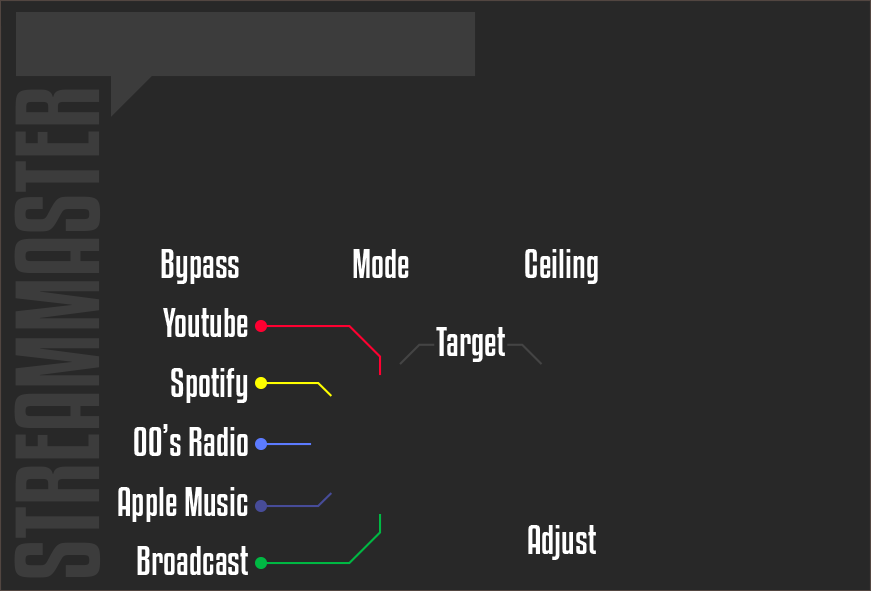
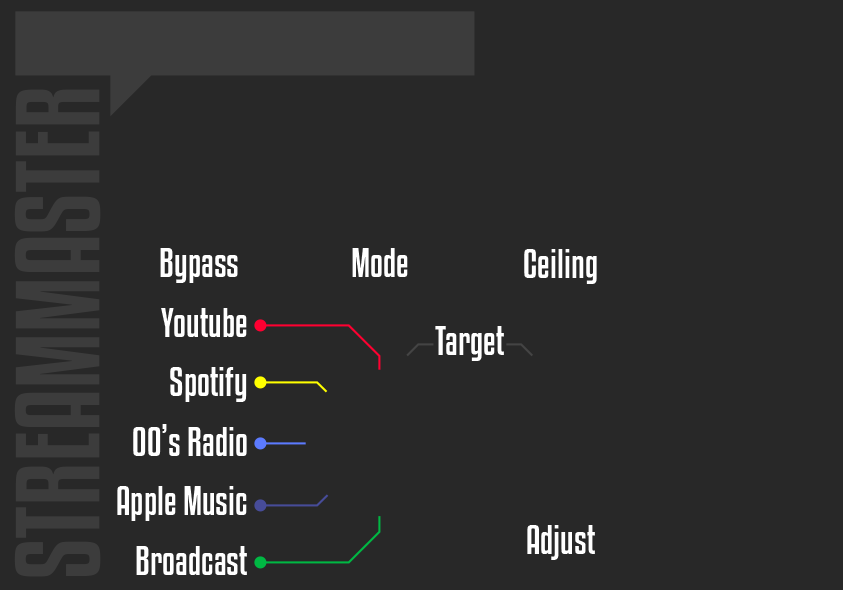
Implemented 0.1dB step for Adjust knob, minor GUI tweaks

diff --git a/StreamMaster.cpp b/StreamMaster.cpp
@@ -242,19 +242,23 @@ StreamMaster::StreamMaster(IPlugInstanceInfo instanceInfo):
   GetParam(kBypassSwitch)->InitBool("OnOff", 0, "");
 
   // Ceiling knob
-  /* We need precise values for ceiling knob,
+  /*
+  We want to only have values with 0.1 step for ceiling knob,
+  plus make it feel "clicky" opposed to a usual smooth knob,
   so we have to use integer values and convert them into double later.
-  For example, "9" represents -0.1dB, "0" is for -1.0dB etc. if the actual range is -1.0..-0.0dB*/
+  For example, "9" represents -0.1dB, "0" is for -1.0dB etc.
+  if the actual range is -1.0..0.0dB
+  */
   GetParam(kCeiling)->InitInt("Ceiling", PLUG_KNOB_PEAK_DEFAULT, PLUG_KNOB_PEAK_MIN, PLUG_KNOB_PEAK_MAX, "tenths of dB");
   GetParam(kCeiling)->SetShape(1.);
 
   // Adjust knob
   GetParam(kAdjust)->InitDouble(
     "Target LUFS Adjust",
-    PLUG_ADJUST_KNOB_PEAK_DEFAULT,
-    PLUG_ADJUST_KNOB_PEAK_MIN,
-    PLUG_ADJUST_KNOB_PEAK_MAX,
-    PLUG_ADJUST_KNOB_PEAK_STEP,
+    PLUG_KNOB_ADJUST_DEFAULT,
+    PLUG_KNOB_ADJUST_MIN,
+    PLUG_KNOB_ADJUST_MAX,
+    PLUG_KNOB_ADJUST_STEP,
     "LUFS"
     );
   GetParam(kAdjust)->SetShape(1.);
@@ -630,7 +634,7 @@ StreamMaster::StreamMaster(IPlugInstanceInfo instanceInfo):
   nCurrentTargetIndex = (unsigned short)GetParam(kPlatformSwitch)->Int();
 
   // Target loudness user adjustement
-  fAdjustLufsDb = GetParam(kAdjust)->Value();
+  fAdjustLufsDb = PLUG_KNOB_ADJUST_ROUND(GetParam(kAdjust)->Value());
 
   // ###
   /* Low (-inf) LUFS flag. Doesn't allow user to go into mastering mode
@@ -781,7 +785,7 @@ void StreamMaster::UpdatePreMastering(PLUG_Target mPlatform){
   fLimiterCeilingLinear = LOG_TO_LINEAR(fLimiterCeilingDb);
 
   // *** Target loudness user adjustement
-  fAdjustLufsDb = GetParam(kAdjust)->Value();
+  fAdjustLufsDb = PLUG_KNOB_ADJUST_ROUND(GetParam(kAdjust)->Value());
   fAdjustedTargetLufsIntegratedDb = fTargetLufsIntegratedDb + fAdjustLufsDb;
 
   // *** Mastering gain in dB
@@ -884,10 +888,10 @@ void StreamMaster::OnParamChange(int paramIdx)
 
     // Tweaked adjust knob
     case kAdjust:
-      fAdjust = GetParam(kAdjust)->Value();
+      fAdjust = PLUG_KNOB_ADJUST_ROUND(GetParam(kAdjust)->Value());
 
       // Text label of knob's value
-      sprintf(sAdjustString, "%5.2fLUFS", fAdjust);
+      sprintf(sAdjustString, "%+5.2fLUFS", fAdjust);
       tAdjustTextControl->SetTextFromPlug(sAdjustString);
 
       tPlugNewMode = PLUG_CONVERT_SWITCH_VALUE_TO_PLUG_MODE(kModeSwitch);

diff --git a/StreamMaster.h b/StreamMaster.h
@@ -80,10 +80,13 @@ use PLUG_KNOB_PEAK_DOUBLE() to convert them to linear gain*/
 #define PLUG_KNOB_PEAK_DOUBLE(i) ((double)i/PLUG_KNOB_PEAK_SCALE)
 
 // Adjust knob values, these are real life ones (LUFS)
-#define PLUG_ADJUST_KNOB_PEAK_MIN -12.
-#define PLUG_ADJUST_KNOB_PEAK_MAX 0.
-#define PLUG_ADJUST_KNOB_PEAK_STEP .1
-#define PLUG_ADJUST_KNOB_PEAK_DEFAULT 0.
+/* Step doesn't seep to matter in this version of framework,
+   so we have to round it via PLUG_KNOB_ADJUST_ROUND every time we read it */
+#define PLUG_KNOB_ADJUST_MIN -6.
+#define PLUG_KNOB_ADJUST_MAX 6.
+#define PLUG_KNOB_ADJUST_STEP .1
+#define PLUG_KNOB_ADJUST_DEFAULT 0.
+#define PLUG_KNOB_ADJUST_ROUND(i) (std::floor((i * 10.) + .5) / 10.)
 
 #define PLUG_DEFAULT_PRESET_NAME "Default"
 #define PLUG_LIMITER_ATTACK_MILLISECONDS 0.1
@@ -205,7 +208,7 @@ enum ELayout
   kGrMeter_Y = kLufsMeter_Y,
   
   // Peaking knob
-  kCeilingX = 302 + (302-122),
+  kCeilingX = 482,
   kCeilingY = 90,
   kKnobFrames = 21,
 
@@ -224,7 +227,7 @@ enum ELayout
   kILoudnessTextControl_W = 80,
   kILoudnessTextControl_H = 40,
   kILoudnessTextControl_X = kLufsMeter_X - (kILoudnessTextControl_W - PLUG_METERING_BAR_W),
-  kILoudnessTextControl_Y = 552,
+  kILoudnessTextControl_Y = 554,
 
   // Gain reduction Text reading
   kIGrTextControl_W = 80,
@@ -235,7 +238,7 @@ enum ELayout
 #elif defined(__APPLE__)
   // LUFS Text reading
   kILoudnessTextControl_X = kLufsMeter_X,
-  kILoudnessTextControl_Y = 552,
+  kILoudnessTextControl_Y = 554,
   kILoudnessTextControl_W = 80,
   kILoudnessTextControl_H = 40,
 
